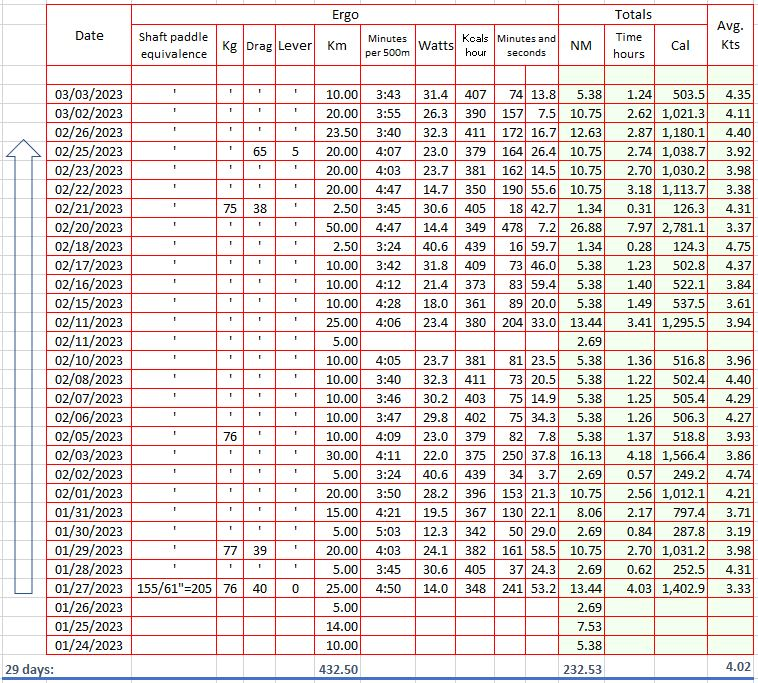
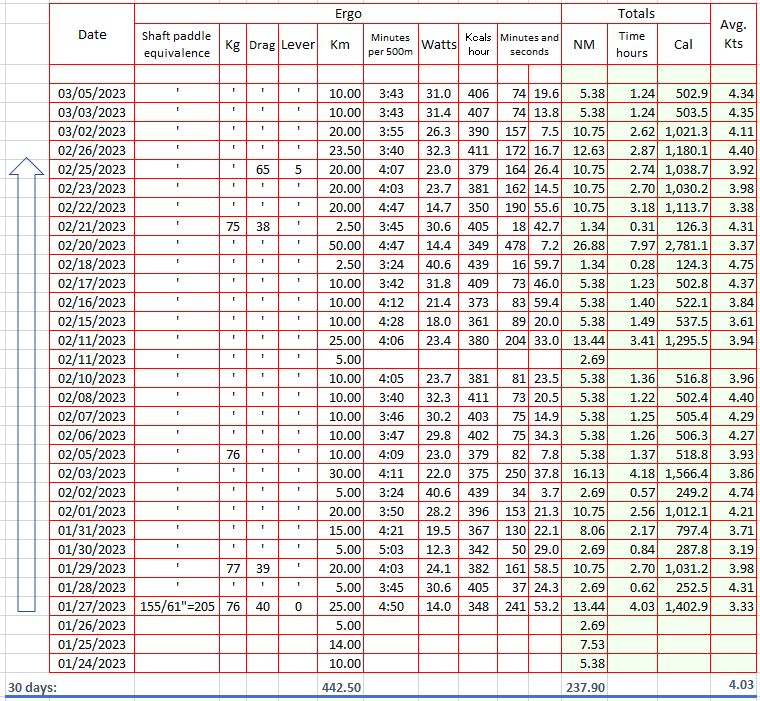
updates

diff --git a/dry-run/log/index.html b/dry-run/log/index.html
@@ -214,11 +214,11 @@ $(document).ready(function(){
 <p>This is not the actual trip. This is just training mapped on chart to have an idea of what the real thing might be.</p>
 </blockquote>
 <blockquote>
-<p>March 3rd, 2023</p>
+<p>March 5, 2023</p>
 </blockquote>
-<p><img src="/img/mar3.JPG" alt="March 3rd">
+<p><img src="/img/mar5.JPG" alt="March 5">
 <div style="text-align: center">
-29 days on ergo, 232 nautical miles, 432 Km
+30 days on ergo, 238 nautical miles, 442 Km
 </div>
 </p>
 <p><img src="/img/Stats.JPG" alt="Stats">
